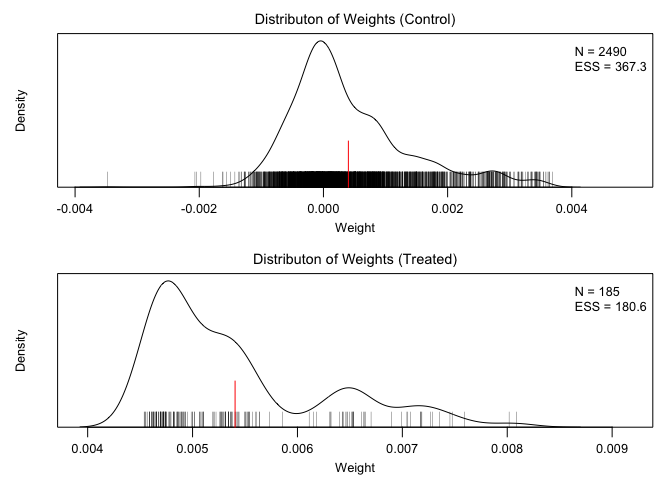
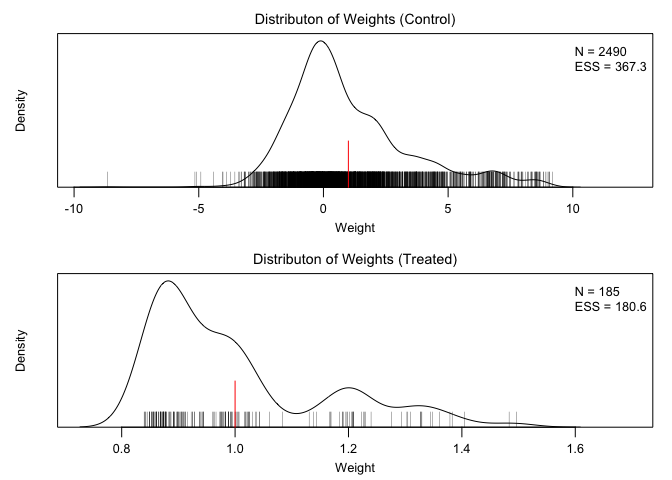
Updated references and README

diff --git a/README.md b/README.md
@@ -5,14 +5,14 @@
 
 <!-- <img src="man/figures/logo.png" align="right" width="150"/> -->
 
-## <!-- [![CRAN_Status_Badge](https://img.shields.io/cran/v/MatchIt?color=952100)](https://cran.r-project.org/package=lmw) [![CRAN_Downloads_Badge](https://cranlogs.r-pkg.org/badges/MatchIt?color=952100)](https://cran.r-project.org/package=lmw) -->
+## [![CRAN_Status_Badge](https://img.shields.io/cran/v/lmw)](https://cran.r-project.org/package=lmw) [![CRAN_Downloads_Badge](https://cranlogs.r-pkg.org/badges/lmw)](https://cran.r-project.org/package=lmw)
 
 ### Overview
 
 `lmw` computes weights implied by a linear regression model used to
 estimate an average treatment effect and provides diagnostics that
 incorporate these weights as described in [Chattopadhyay & Zubizarreta
-(2022)](https://doi.org/10.1093/biomet/asac058). The treatment effect
+(2023)](https://doi.org/10.1093/biomet/asac058). The treatment effect
 resulting from this model can be represented as a difference between the
 weighted outcome means in the treatment groups, similar to inverse
 probability weighting.
@@ -24,9 +24,9 @@ variance among all weights that do so, and they may be negative. Despite
 yielding exact mean balance between treatment groups, they may not yield
 balance between the treatment groups and the target population
 corresponding to the desired estimand; in addition, the negative weights
-they produce indicate extrapolation beyond the support of the covariate.
-`lmw` provides tools to compute the implied weights and perform
-diagnostics to assess balance, extrapolation, influence, and
+they produce indicate extrapolation beyond the support of the
+covariates. `lmw` provides tools to compute the implied weights and
+perform diagnostics to assess balance, extrapolation, influence, and
 distributional properties of the weights. In addition, `lmw` provides
 tools to estimate average treatment effects from the specified models
 that correspond to selected target populations.
@@ -145,12 +145,16 @@ plot(lmw.out, type = "weights")
 
 <img src="man/figures/README-unnamed-chunk-6-1.png" style="display: block; margin: auto;" />
 
-Negative weights are present in the control group.
+A red line indicates the average of the weights in that group (the
+weights are scaled so this is always equal to 1). Negative weights are
+present in the control group. Weights are also highly variable in the
+control group, leading to a decreased effective sample size (ESS).
 
 We can further examine extrapolation for specific covariates:
 
 ``` r
-plot(lmw.out, type = "extrapolation", var = ~married + re75)
+plot(lmw.out, type = "extrapolation",
+     variables = ~married + re75)
 ```
 
 <img src="man/figures/README-unnamed-chunk-7-1.png" style="display: block; margin: auto;" />
@@ -189,6 +193,12 @@ summary(lmw.fit)
 
 In addition, `lmw` can be used with multi-category treatments, two-stage
 least squares estimation of instrumental variable models, and
-double-robust estimators by interfacing with the `MatchIt` and
+doubly-robust estimators by interfacing with the `MatchIt` and
 `WeightIt` packages to implement these diagnostics for regression in a
 matched or weighted sample.
+
+### References
+
+Chattopadhyay, A., & Zubizarreta, J. R. (2023). On the implied weights
+of linear regression for causal inference. *Biometrika*, 110(3),
+615–629. <https://doi.org/10.1093/biomet/asac058>
